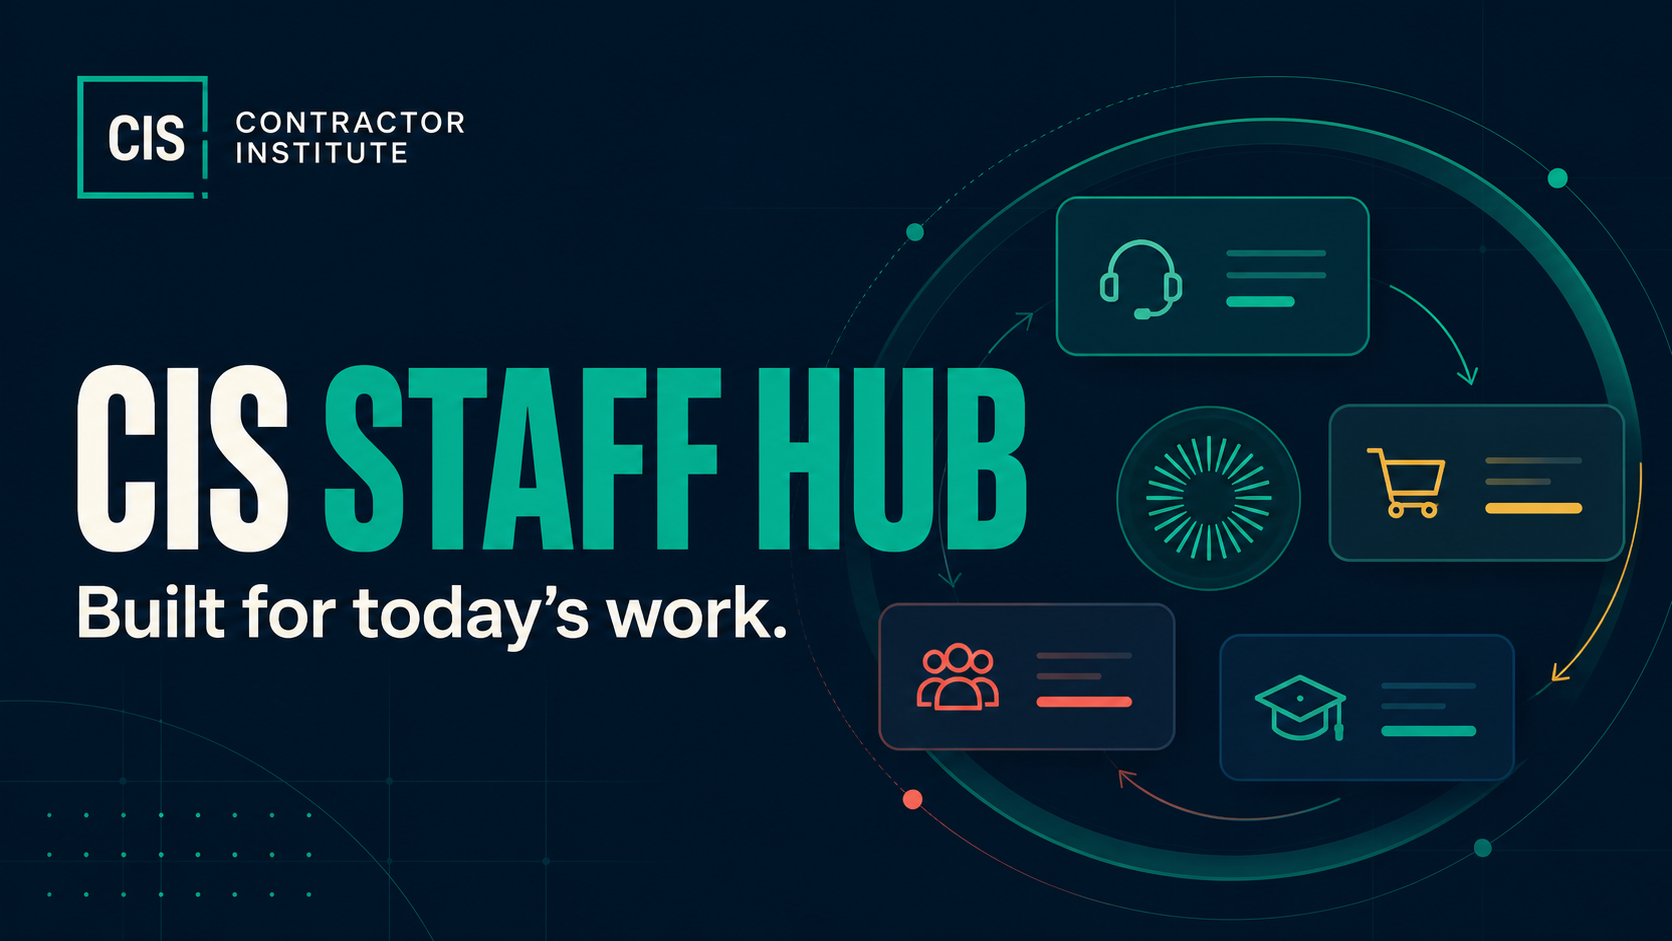
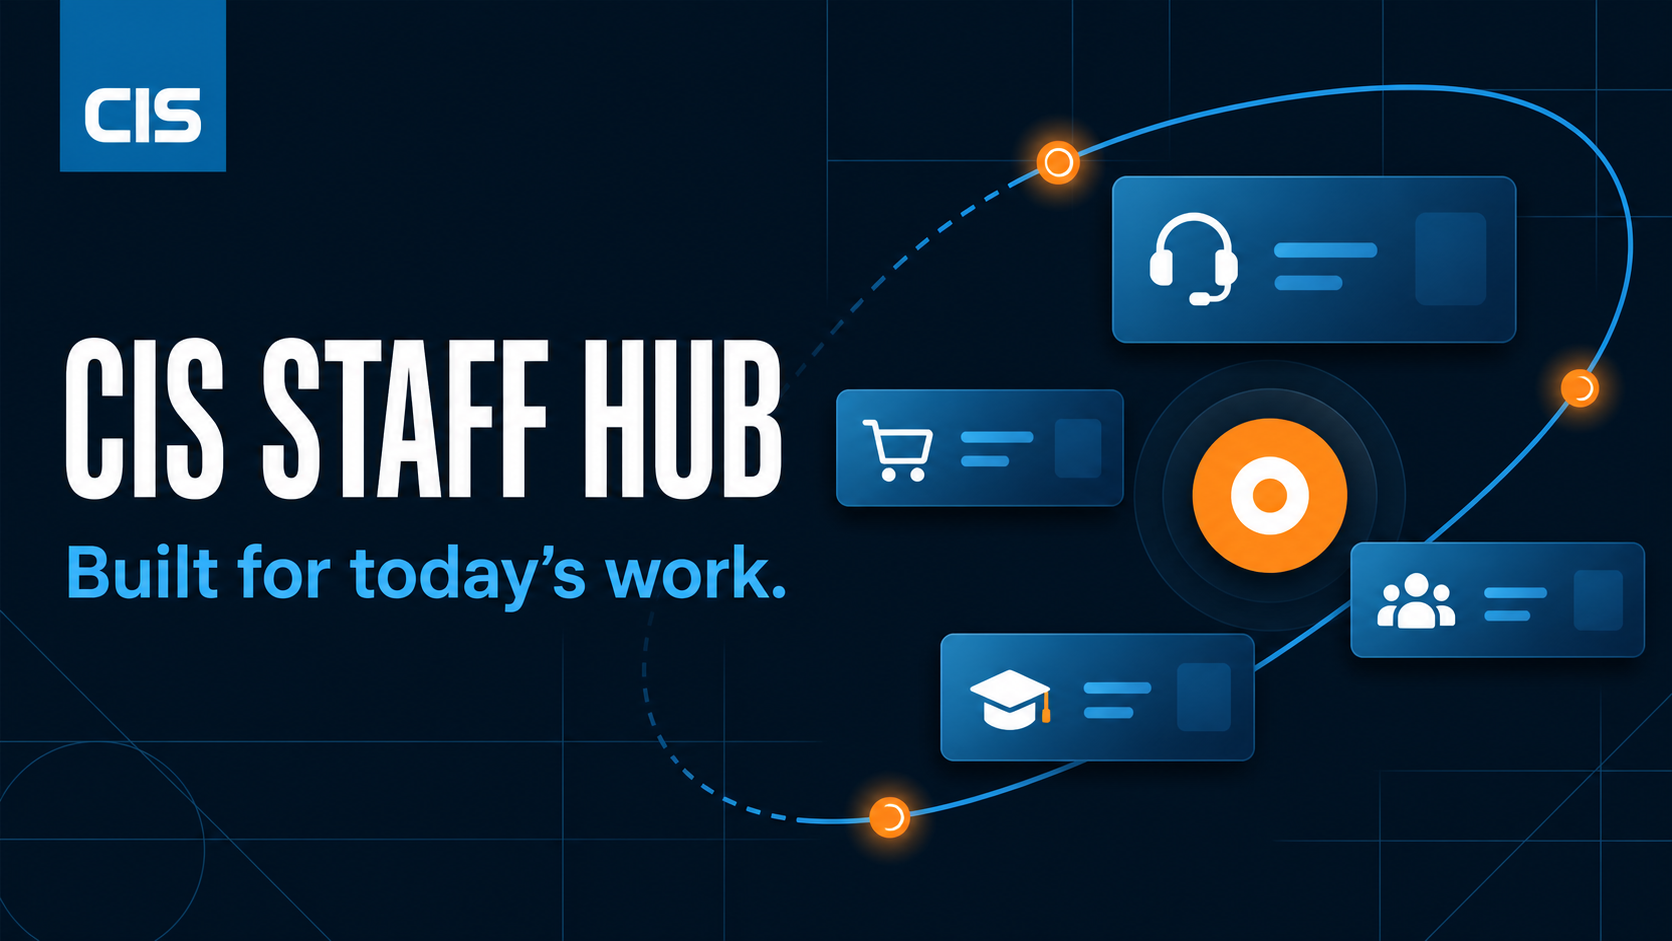
Apply CIS public brand palette

diff --git a/app/globals.css b/app/globals.css
@@ -1,26 +1,45 @@
 @import "tailwindcss";
 
 :root {
-  --ink-950: #071f2e;
-  --ink-900: #0b2b3d;
-  --ink-800: #133d50;
-  --ink-700: #245469;
-  --ink-500: #5d7a89;
-  --paper: #f4f2eb;
-  --surface: #fffdf8;
-  --white: #ffffff;
-  --line: #dce3e4;
-  --teal: #0bb39c;
-  --teal-dark: #078574;
-  --teal-soft: #dff7f1;
-  --coral: #ef765b;
-  --coral-soft: #fff0eb;
-  --yellow: #eebf55;
-  --yellow-soft: #fff7db;
-  --blue-soft: #e9f2f6;
-  --red: #be3f36;
-  --shadow-sm: 0 1px 2px rgb(7 31 46 / 6%), 0 8px 30px rgb(7 31 46 / 5%);
-  --shadow-lg: 0 24px 80px rgb(7 31 46 / 16%);
+  /* Public-site brand tokens. #FC9012 is the canonical active orange. */
+  --cis-blue: #2b90c0;
+  --cis-blue-dark: #2479a1;
+  --cis-blue-header: #4b8dbc;
+  --cis-blue-bright: #43b4eb;
+  --cis-blue-light: #5ecbff;
+  --cis-navy: #274963;
+  --cis-orange: #fc9012;
+  --cis-orange-alt: #f1901f;
+  --cis-link: #395d79;
+  --cis-footer: #101e28;
+  --cis-gray: #a6a6a6;
+  --cis-gray-dark: #5d5d5d;
+  --cis-background: #f8f8f8;
+  --cis-white: #ffffff;
+  --cis-black: #000000;
+  --cis-danger: #b60000;
+
+  /* Semantic application aliases. */
+  --ink-950: var(--cis-footer);
+  --ink-900: var(--cis-navy);
+  --ink-800: var(--cis-navy);
+  --ink-700: var(--cis-link);
+  --ink-500: var(--cis-gray-dark);
+  --paper: var(--cis-background);
+  --surface: var(--cis-white);
+  --white: var(--cis-white);
+  --line: #d8e4ea;
+  --teal: var(--cis-blue);
+  --teal-dark: var(--cis-blue-dark);
+  --teal-soft: #e9f5fa;
+  --coral: var(--cis-orange);
+  --coral-soft: #fff1df;
+  --yellow: var(--cis-orange);
+  --yellow-soft: #fff4e6;
+  --blue-soft: #edf7fc;
+  --red: var(--cis-danger);
+  --shadow-sm: 0 1px 2px rgb(16 30 40 / 6%), 0 8px 30px rgb(16 30 40 / 5%);
+  --shadow-lg: 0 24px 80px rgb(16 30 40 / 16%);
   --radius-sm: 10px;
   --radius-md: 16px;
   --radius-lg: 24px;
@@ -63,7 +82,7 @@ button:focus-visible,
 a:focus-visible,
 input:focus-visible,
 select:focus-visible {
-  outline: 3px solid rgb(11 179 156 / 35%);
+  outline: 3px solid rgb(43 144 192 / 35%);
   outline-offset: 2px;
 }
 
@@ -117,11 +136,11 @@ button:disabled {
   height: 42px;
   border-radius: 12px;
   background: var(--teal);
-  color: var(--ink-950);
+  color: var(--white);
   font-size: 15px;
   font-weight: 900;
   letter-spacing: -0.06em;
-  box-shadow: inset 0 -3px 0 rgb(7 31 46 / 13%);
+  box-shadow: inset 0 -3px 0 rgb(16 30 40 / 13%);
 }
 
 .brand-copy {
@@ -207,7 +226,7 @@ button:disabled {
 .search-input {
   width: 100%;
   min-height: 50px;
-  border: 1px solid #cfd9db;
+  border: 1px solid #cedde5;
   border-radius: 12px;
   background: var(--white);
   color: var(--ink-950);
@@ -218,14 +237,14 @@ button:disabled {
 .field input:hover,
 .field select:hover,
 .search-input:hover {
-  border-color: #99acb3;
+  border-color: #91afbf;
 }
 
 .field input:focus,
 .field select:focus,
 .search-input:focus {
   border-color: var(--teal-dark);
-  box-shadow: 0 0 0 4px rgb(11 179 156 / 11%);
+  box-shadow: 0 0 0 4px rgb(43 144 192 / 12%);
   outline: none;
 }
 
@@ -272,19 +291,19 @@ button:disabled {
   min-height: 52px;
   margin-top: 4px;
   padding: 0 20px;
-  background: var(--ink-950);
+  background: var(--cis-blue);
   color: var(--white);
-  box-shadow: 0 10px 24px rgb(7 31 46 / 15%);
+  box-shadow: 0 10px 24px rgb(43 144 192 / 22%);
 }
 
 .primary-button:hover:not(:disabled) {
   transform: translateY(-1px);
-  background: var(--ink-800);
+  background: var(--cis-blue-dark);
 }
 
 .primary-button .arrow {
   margin-left: auto;
-  color: var(--teal);
+  color: var(--white);
   font-size: 18px;
 }
 
@@ -306,18 +325,18 @@ button:disabled {
   align-items: flex-start;
   gap: 10px;
   padding: 12px 14px;
-  border: 1px solid #f1c2b7;
+  border: 1px solid #e7b2b2;
   border-radius: 12px;
   background: var(--coral-soft);
-  color: #843329;
+  color: #760000;
   font-size: 13px;
   line-height: 1.45;
 }
 
 .form-alert.info {
-  border-color: #b9ded7;
+  border-color: #afd8ea;
   background: var(--teal-soft);
-  color: #116a5e;
+  color: var(--cis-blue-dark);
 }
 
 .login-note {
@@ -361,9 +380,9 @@ button:disabled {
 
 .scenario-chip:hover,
 .scenario-chip.active {
-  border-color: #80cfc2;
+  border-color: var(--cis-blue-header);
   background: var(--teal-soft);
-  color: #086c5e;
+  color: var(--cis-blue-dark);
 }
 
 .login-footer {
@@ -380,8 +399,8 @@ button:disabled {
   overflow: hidden;
   isolation: isolate;
   background:
-    radial-gradient(circle at 74% 20%, rgb(11 179 156 / 34%) 0 8%, transparent 30%),
-    linear-gradient(145deg, #0d3447 0%, var(--ink-950) 58%, #03141f 100%);
+    radial-gradient(circle at 74% 20%, rgb(67 180 235 / 34%) 0 8%, transparent 30%),
+    linear-gradient(145deg, var(--cis-navy) 0%, var(--cis-footer) 62%, #081017 100%);
   color: var(--white);
 }
 
@@ -422,7 +441,7 @@ button:disabled {
   align-items: center;
   gap: 10px;
   margin: 0 0 20px;
-  color: #78ddce;
+  color: var(--cis-blue-light);
   font-size: 12px;
   font-weight: 800;
   letter-spacing: 0.14em;
@@ -434,8 +453,8 @@ button:disabled {
   width: 8px;
   height: 8px;
   border-radius: 50%;
-  background: var(--teal);
-  box-shadow: 0 0 0 7px rgb(11 179 156 / 14%);
+  background: var(--cis-orange);
+  box-shadow: 0 0 0 7px rgb(252 144 18 / 16%);
 }
 
 .visual-content h2 {
@@ -448,7 +467,7 @@ button:disabled {
 }
 
 .visual-content h2 em {
-  color: var(--teal);
+  color: var(--cis-orange);
   font-style: normal;
 }
 
@@ -552,7 +571,7 @@ button:disabled {
 }
 
 .sidebar .brand-copy span {
-  color: #7895a2;
+  color: #93afbd;
 }
 
 .sidebar-nav {
@@ -605,8 +624,8 @@ button:disabled {
 }
 
 .nav-button.active {
-  background: rgb(11 179 156 / 15%);
-  color: #72dece;
+  background: rgb(252 144 18 / 15%);
+  color: #ffc77e;
 }
 
 .nav-icon {
@@ -618,7 +637,7 @@ button:disabled {
 }
 
 .nav-button.active .nav-icon {
-  color: var(--teal);
+  color: var(--cis-orange);
 }
 
 .nav-badge {
@@ -658,8 +677,8 @@ button:disabled {
   width: 38px;
   height: 38px;
   border-radius: 11px;
-  background: #fee2d8;
-  color: #9a432f;
+  background: #fff0dc;
+  color: #9b5200;
   font-size: 12px;
   font-weight: 850;
 }
@@ -697,7 +716,7 @@ button:disabled {
   gap: 12px;
   padding: 0 32px;
   border-bottom: 1px solid var(--line);
-  background: rgb(255 253 248 / 93%);
+  background: rgb(255 255 255 / 93%);
   backdrop-filter: blur(14px);
 }
 
@@ -745,13 +764,13 @@ button:disabled {
   min-height: 40px;
   padding: 0 14px;
   background: var(--teal);
-  color: var(--ink-950);
+  color: var(--white);
   font-size: 12px;
 }
 
 .quick-button:hover {
   transform: translateY(-1px);
-  background: #19c9b0;
+  background: var(--cis-blue-dark);
 }
 
 .header-icon-button {
@@ -817,10 +836,10 @@ button:disabled {
   gap: 13px;
   margin-bottom: 22px;
   padding: 14px 16px;
-  border: 1px solid #efdba9;
+  border: 1px solid #f3ca98;
   border-radius: 14px;
   background: var(--yellow-soft);
-  color: #66501d;
+  color: #754500;
 }
 
 .maintenance-icon {
@@ -830,8 +849,8 @@ button:disabled {
   width: 32px;
   height: 32px;
   border-radius: 9px;
-  background: #f5d477;
-  color: #59430c;
+  background: var(--cis-orange);
+  color: var(--cis-footer);
   font-weight: 900;
 }
 
@@ -847,7 +866,7 @@ button:disabled {
 
 .maintenance-alert .text-button {
   margin-left: auto;
-  color: #795f20;
+  color: #7d4a00;
 }
 
 .metric-grid {
@@ -1010,14 +1029,14 @@ button:disabled {
   border-radius: 999px;
   padding: 6px 9px;
   background: var(--teal-soft);
-  color: #087465;
+  color: var(--cis-blue-dark);
   font-size: 10px;
   font-weight: 780;
 }
 
 .status-pill.coral {
   background: var(--coral-soft);
-  color: #a33f2e;
+  color: #945000;
 }
 
 .activity-list {
@@ -1081,7 +1100,7 @@ button:disabled {
   place-items: center;
   border: 1px dashed #bdc9cc;
   border-radius: var(--radius-lg);
-  background: rgb(255 253 248 / 58%);
+  background: rgb(255 255 255 / 64%);
   padding: 40px;
   text-align: center;
 }
@@ -1121,7 +1140,7 @@ button:disabled {
   position: fixed;
   z-index: 70;
   inset: 0;
-  background: rgb(7 31 46 / 45%);
+  background: rgb(16 30 40 / 48%);
   backdrop-filter: blur(4px);
 }
 
@@ -1207,7 +1226,7 @@ button:disabled {
   display: flex;
   align-items: center;
   gap: 12px;
-  border: 1px solid #aeddd5;
+  border: 1px solid #afd8ea;
   border-radius: 13px;
   background: var(--surface);
   color: var(--ink-800);

diff --git a/app/staff/staff-portal.tsx b/app/staff/staff-portal.tsx
@@ -49,28 +49,28 @@ const metrics = [
     value: "24",
     detail: "12 awaiting shipment",
     trend: "+8%",
-    color: "#0bb39c",
+    color: "#2B90C0",
   },
   {
     label: "Student requests",
     value: "17",
     detail: "5 need attention today",
     trend: "+3",
-    color: "#ef765b",
+    color: "#FC9012",
   },
   {
     label: "Class starts",
     value: "9",
     detail: "Across 4 locations",
     trend: "This week",
-    color: "#3b7c91",
+    color: "#4B8DBC",
   },
   {
     label: "Open messages",
     value: "31",
     detail: "Average reply 18m",
     trend: "On track",
-    color: "#eebf55",
+    color: "#43B4EB",
   },
 ];
 
